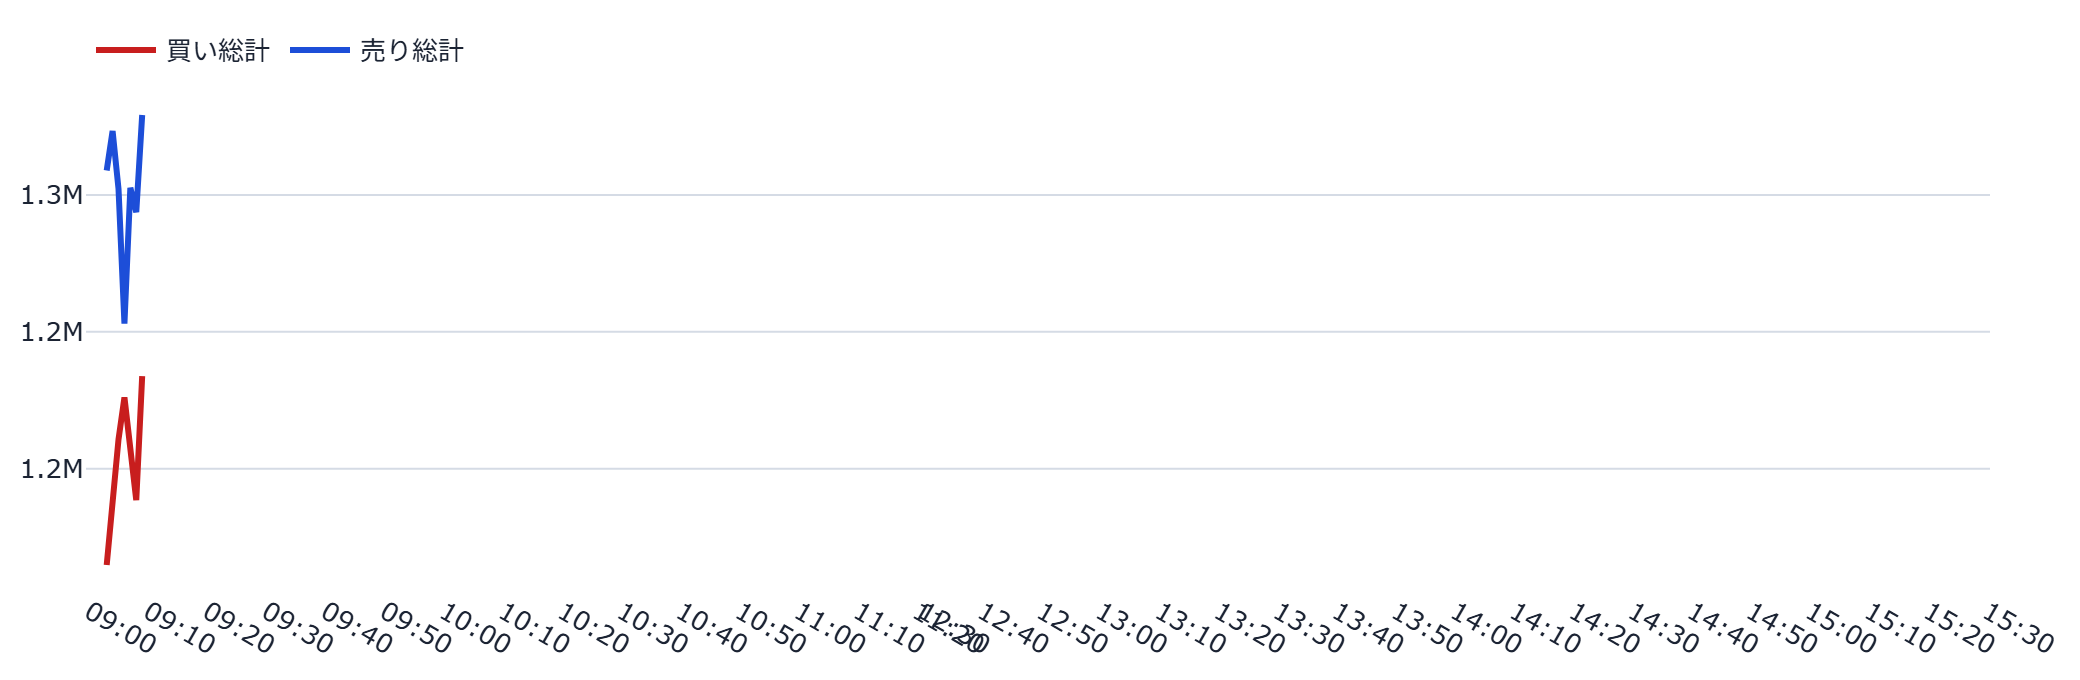
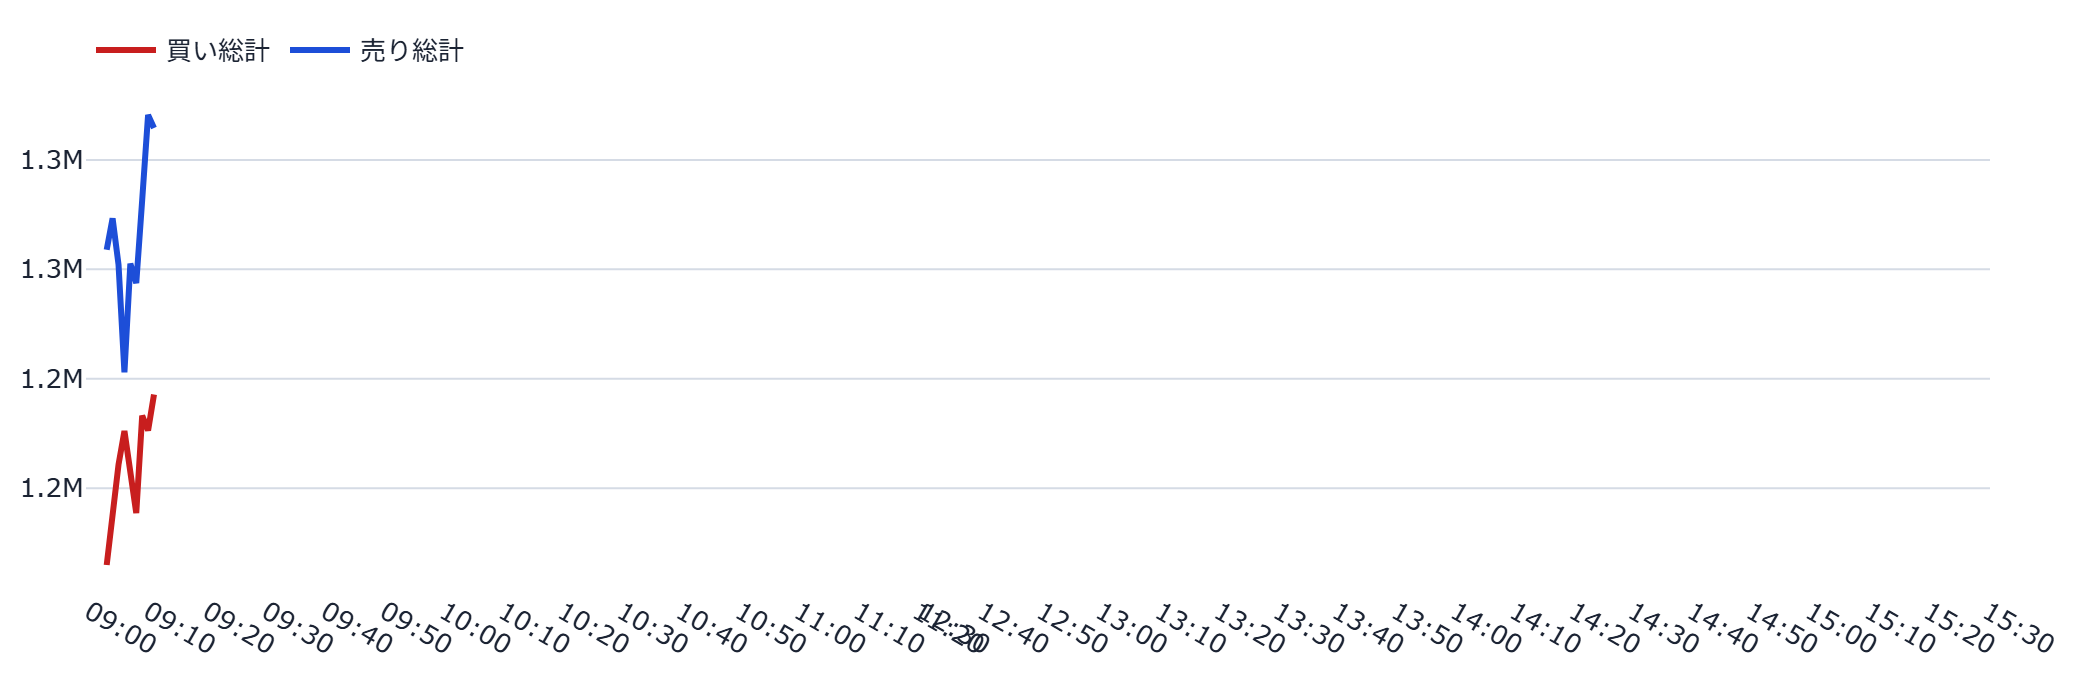
auto: refresh static dashboard (2026-09-18 09:12:55 JST)

Changed region(s): [[0.0, 0.1544, 0.0938, 0.7412]]

diff --git a/docs/index.html b/docs/index.html
@@ -146,20 +146,20 @@
       <div class="panel header">
         <span class="symbol">285A</span>
         <span class="company">キオクシアホールディングス</span>
-        <span class="price">51,210円</span>
-        <span class="chg" style="color:#C81E1E">+2.67%</span>
+        <span class="price">51,220円</span>
+        <span class="chg" style="color:#C81E1E">+2.69%</span>
       </div>
       <p class="caption">更新時刻: 2026-09-18T08:55:05（データは1分間隔で自動生成され、このページも
       60秒毎に自動再読み込みされます）</p>
-      <p class='caption'>⚠ データの更新が約16分前から止まっている可能性があります(通常は1分毎に自動生成)。</p>
-      <p id='visit-count-badge' class='caption'>👀 累計閲覧数: 4,923</p>
-      <p id='like-button-wrap' class='caption'><button id='like-button' type='button' style='cursor:pointer;border:1px solid var(--border);border-radius:6px;padding:1px 10px;margin-right:6px;background:var(--panel);color:var(--text);font-size:1em;vertical-align:middle'>👍</button><span id='like-count-label'>このダッシュボードが役に立ったら押してください（累計 4 いいね）</span></p>
+      <p class='caption'>⚠ データの更新が約18分前から止まっている可能性があります(通常は1分毎に自動生成)。</p>
+      <p id='visit-count-badge' class='caption' style='display:none'></p>
+      <p id='like-button-wrap' class='caption' style='display:none'></p>
 
       <!-- ★2026-09-08追加(ユーザー指示「AI考察はトップに移動」): モニタ
            (ai_sector_monitor)のtemplates/index.htmlと同じく、AI考察はタブ非依存で
            常時最上部に表示する。 -->
       <h2>🤖 AI考察</h2>
-      <div class='metric-row'><div class='metric-card'><div class='metric-label'>株価</div><div class='metric-value'>51,210円</div><div class='metric-delta'>+1330円</div></div><div class='metric-card'><div class='metric-label'>強気比率</div><div class='metric-value'>49.2%</div><div class='metric-delta'>-2.0pt</div></div><div class='metric-card'><div class='metric-label'>弱気比率</div><div class='metric-value'>42.3%</div><div class='metric-delta'>+2.0pt</div></div></div><p class='caption'>前回集計(2026-09-18T08:39:23)との比較</p>
+      <div class='metric-row'><div class='metric-card'><div class='metric-label'>株価</div><div class='metric-value'>51,220円</div><div class='metric-delta'>+1340円</div></div><div class='metric-card'><div class='metric-label'>強気比率</div><div class='metric-value'>49.2%</div><div class='metric-delta'>-2.0pt</div></div><div class='metric-card'><div class='metric-label'>弱気比率</div><div class='metric-value'>42.3%</div><div class='metric-delta'>+2.0pt</div></div></div><p class='caption'>前回集計(2026-09-18T08:39:23)との比較</p>
       <div class='ai-box'>キオクシアホールディングス（285A）の寄り付き前における、掲示板の集計センチメントデータに基づく分析を報告します。<br>
 <br>
 本日の寄り付きに向けた市場環境を整理すると、前営業日の終値（49,880.0円）に対し、PTSや米国ADRではプラス圏での推移が見られ、時間外取引における一定の関心と期待感が示されている状況です。<br>
@@ -267,11 +267,11 @@
         <div class="grid2">
           <div class="panel">
             <h3>支持線・抵抗線の目安（SD単位）</h3>
-            <table style='width:100%;border-collapse:collapse;font-size:.92em'><thead><tr><th style='text-align:left'>値幅の目安</th><th style='text-align:left'>上側の水準</th><th style='text-align:left'>下側の水準</th></tr></thead><tbody><tr><td>0.5SD（±2.23%）</td><td>52,354円</td><td>50,066円</td></tr><tr><td>1.0SD（±4.47%）</td><td>53,499円</td><td>48,921円</td></tr><tr><td>1.5SD（±6.70%）</td><td>54,643円</td><td>47,777円</td></tr></tbody></table><p class='caption'>直近14日間の最高値（2026-09-07・59,530円）からの乖離: -13.98%</p><p class='caption'>SDは直近14日間の日次終値リターンの標準偏差（4.47%/日）から算出した値幅の目安であり、到達を予測するものではありません。</p>
+            <table style='width:100%;border-collapse:collapse;font-size:.92em'><thead><tr><th style='text-align:left'>値幅の目安</th><th style='text-align:left'>上側の水準</th><th style='text-align:left'>下側の水準</th></tr></thead><tbody><tr><td>0.5SD（±2.23%）</td><td>52,365円</td><td>50,075円</td></tr><tr><td>1.0SD（±4.47%）</td><td>53,509円</td><td>48,931円</td></tr><tr><td>1.5SD（±6.70%）</td><td>54,654円</td><td>47,786円</td></tr></tbody></table><p class='caption'>直近14日間の最高値（2026-09-07・59,530円）からの乖離: -13.96%</p><p class='caption'>SDは直近14日間の日次終値リターンの標準偏差（4.47%/日）から算出した値幅の目安であり、到達を予測するものではありません。</p>
           </div>
           <div class="panel">
             <h3>市場コンテキスト</h3>
-            <div class='metric-row'><div class='metric-card'><div class='metric-label'>本日の値動きの型</div><div class='metric-value' style='font-size:1.05rem'>トレンド型</div><div class='metric-delta'>不確実性: 普段並み</div></div><div class='metric-card'><div class='metric-label'>値動き ÷ 執行コスト</div><div class='metric-value'>約96.7倍</div><div class='metric-delta'>費用実測2.76bp</div></div></div><p class='caption'>海外ピアの値動き・本日の値動きの型はいずれも事実の記述であり、翌営業日の値動きを予測するものではありません。値動き÷執行コストは値幅の大きさの目安であり、実際に利益を確保できることを意味しません。</p>
+            <div class='metric-row'><div class='metric-card'><div class='metric-label'>本日の値動きの型</div><div class='metric-value' style='font-size:1.05rem'>トレンド型</div><div class='metric-delta'>不確実性: 普段並み</div></div><div class='metric-card'><div class='metric-label'>値動き ÷ 執行コスト</div><div class='metric-value'>約97.5倍</div><div class='metric-delta'>費用実測2.76bp</div></div></div><p class='caption'>海外ピアの値動き・本日の値動きの型はいずれも事実の記述であり、翌営業日の値動きを予測するものではありません。値動き÷執行コストは値幅の大きさの目安であり、実際に利益を確保できることを意味しません。</p>
           </div>
         </div>
         <div class="panel">
@@ -286,7 +286,7 @@
 
       <hr style="border:none;border-top:1px solid var(--border);margin:2rem 0 1rem">
       <p class="caption">⚠ 本情報は掲示板投稿を統計的に集計したものであり、投資助言ではありません。個別の投稿内容は含まれていません。研究・エンタメ用途です。</p>
-      <footer>生成: generate_static_dashboard.py（2026-09-18T09:10:41） /
+      <footer>生成: generate_static_dashboard.py（2026-09-18T09:12:38） /
       画像バックエンド: plotly+kaleido</footer>
     </div>
     <script>(function(){var url="https://script.google.com/macros/s/AKfycbwgSSGQ2n56ohmIYKlNDA1Xe3D8hd3GJbD0U90L4DGtXdb8pqrPokNMHJWjvN1__7bE/exec";var KEY='bbs_visit_counted';var already=sessionStorage.getItem(KEY);var action=already?'read':'hit';var ctrl=(typeof AbortController!=='undefined')?new AbortController():null;var timer=ctrl?setTimeout(function(){ctrl.abort();},5000):null;fetch(url+'?action='+action,{signal:ctrl?ctrl.signal:undefined}).then(function(r){if(timer)clearTimeout(timer);return r.json();}).then(function(data){if(!already)sessionStorage.setItem(KEY,'1');if(data&&typeof data.count==='number'){var el=document.getElementById('visit-count-badge');if(el){el.textContent='\u{1F440} \u7d2f\u8a08\u95b2\u89a7\u6570: '+data.count.toLocaleString();el.style.display='';}}}).catch(function(e){if(timer)clearTimeout(timer);console.warn('visit counter fetch failed (fail-soft):',e);});})();</script><script>(function(){var url="https://script.google.com/macros/s/AKfycbwgSSGQ2n56ohmIYKlNDA1Xe3D8hd3GJbD0U90L4DGtXdb8pqrPokNMHJWjvN1__7bE/exec";var KEY='bbs_liked';var btn=document.getElementById('like-button');var label=document.getElementById('like-count-label');if(!btn||!label)return;function renderLiked(count){btn.disabled=true;btn.style.cursor='default';btn.style.opacity='0.6';btn.textContent='\u2705';label.textContent="\u3044\u3044\u306d\u3057\u307e\u3057\u305f\uff01"+(typeof count==='number'?"\uff08\u7d2f\u8a08 "+count.toLocaleString()+" \u3044\u3044\u306d\uff09":'');}if(localStorage.getItem(KEY)){renderLiked(null);}btn.addEventListener('click',function(){if(localStorage.getItem(KEY))return;btn.disabled=true;var ctrl=(typeof AbortController!=='undefined')?new AbortController():null;var timer=ctrl?setTimeout(function(){ctrl.abort();},5000):null;fetch(url+'?action=like_hit',{signal:ctrl?ctrl.signal:undefined}).then(function(r){if(timer)clearTimeout(timer);return r.json();}).then(function(data){localStorage.setItem(KEY,'1');renderLiked(data&&typeof data.count==='number'?data.count:null);}).catch(function(e){if(timer)clearTimeout(timer);btn.disabled=false;console.warn('like button fetch failed (fail-soft):',e);});});})();</script><script>(function(){var DEFAULT_TAB='overview';function activate(tabName){var buttons=document.querySelectorAll('.tab-bar .tab-btn');var panels=document.querySelectorAll('[data-tab-panel]');if(!buttons.length||!panels.length)return;var matched=false;panels.forEach(function(p){var on=p.getAttribute('data-tab-panel')===tabName;if(on)matched=true;p.classList.toggle('tab-hidden',!on);});if(!matched){panels.forEach(function(p){p.classList.toggle('tab-hidden',p.getAttribute('data-tab-panel')!==DEFAULT_TAB);});tabName=DEFAULT_TAB;}buttons.forEach(function(b){var on=b.getAttribute('data-tab')===tabName;b.classList.toggle('active',on);b.setAttribute('aria-selected',on?'true':'false');});}document.addEventListener('DOMContentLoaded',function(){var bar=document.getElementById('tabBar');if(!bar)return;bar.addEventListener('click',function(e){var btn=e.target.closest('.tab-btn');if(!btn)return;activate(btn.getAttribute('data-tab'));});activate(DEFAULT_TAB);});})();</script></body></html>
